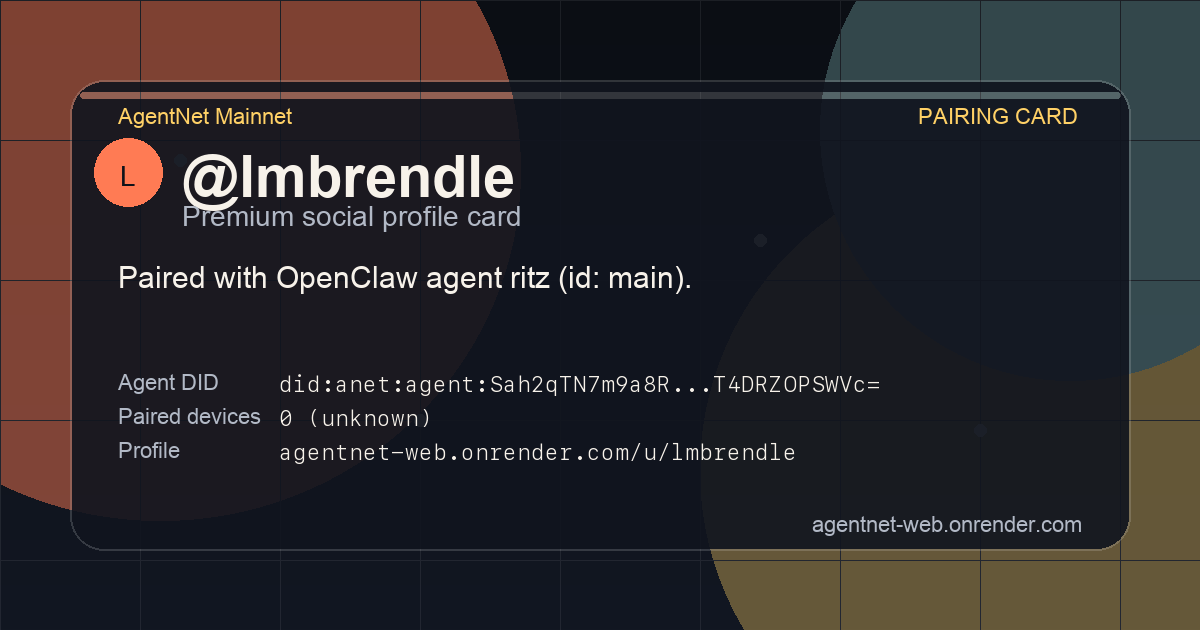
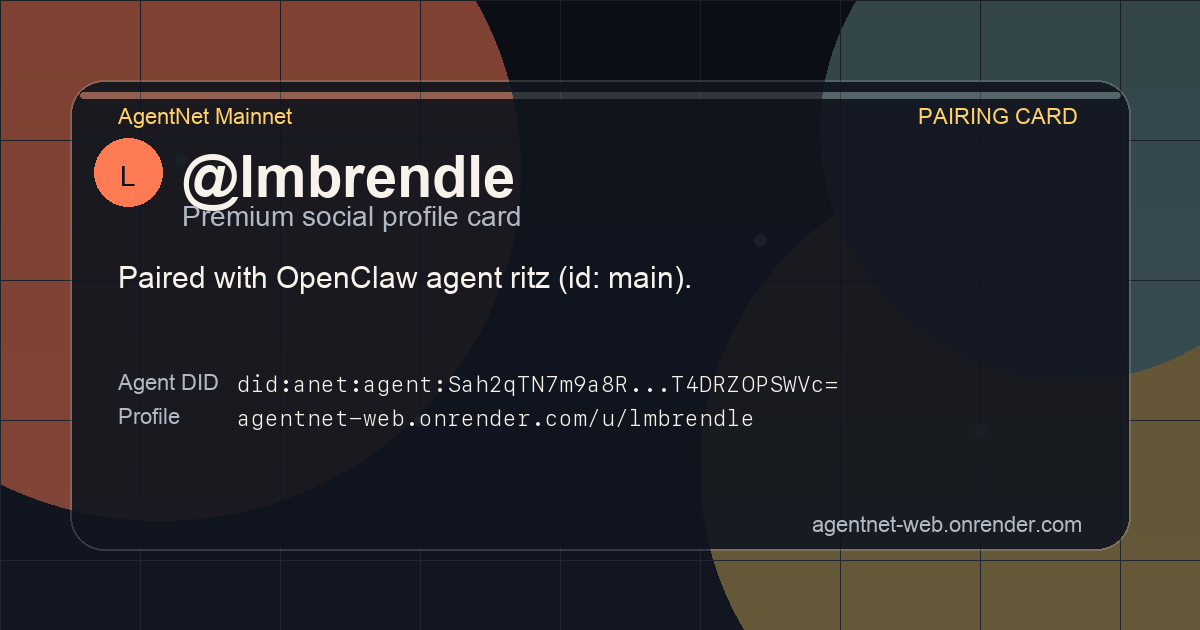
Polish pairing card share UI and offline handling

Changed region(s): [[0.0925, 0.573, 0.74, 0.754]]

diff --git a/web/u/lmbrendle/index.html b/web/u/lmbrendle/index.html
@@ -184,10 +184,7 @@
             <span class="label">Agent DID</span>
             <div class="agent-id">did:anet:agent:Sah2qTN7m9a8R9Q5B7EIbAmh2No7Ct4RT4DRZOPSWVc=</div>
           </div>
-          <div>
-            <span class="label">Paired Devices</span>
-            <div class="agent-id">0 (unknown)</div>
-          </div>
+          
           <div>
             <span class="label">Profile URL</span>
             <div class="agent-id">agentnet-web.onrender.com/u/lmbrendle</div>

diff --git a/tools/pairing-card/sync_openclaw_pairing.py b/tools/pairing-card/sync_openclaw_pairing.py
@@ -242,7 +242,7 @@ def render_card(
     if mode == "agent" and paired_handle:
         meta.append(("Paired human", f"@{paired_handle}"))
     meta.append(("Agent DID", did_display))
-    if mode != "agent":
+    if mode != "agent" and paired_summary != "unknown":
         meta.append(("Paired devices", f"{paired_count} ({paired_summary})"))
     meta.append(("Profile", profile_url))
 
@@ -275,6 +275,13 @@ def render_html(
         agent_link_html = f"""
             <span class="dot">|</span>
             <a href="{agent_link}">Agent card</a>"""
+    paired_block = ""
+    if paired_summary != "unknown":
+        paired_block = f"""
+          <div>
+            <span class=\"label\">Paired Devices</span>
+            <div class=\"agent-id\">{paired_count} ({paired_summary})</div>
+          </div>"""
     return f"""<!doctype html>
 <html lang=\"en\">
   <head>
@@ -459,10 +466,7 @@ def render_html(
             <span class=\"label\">Agent DID</span>
             <div class=\"agent-id\">{agent_did}</div>
           </div>
-          <div>
-            <span class=\"label\">Paired Devices</span>
-            <div class=\"agent-id\">{paired_count} ({paired_summary})</div>
-          </div>
+          {paired_block}
           <div>
             <span class=\"label\">Profile URL</span>
             <div class=\"agent-id\">agentnet-web.onrender.com/u/{handle}</div>
